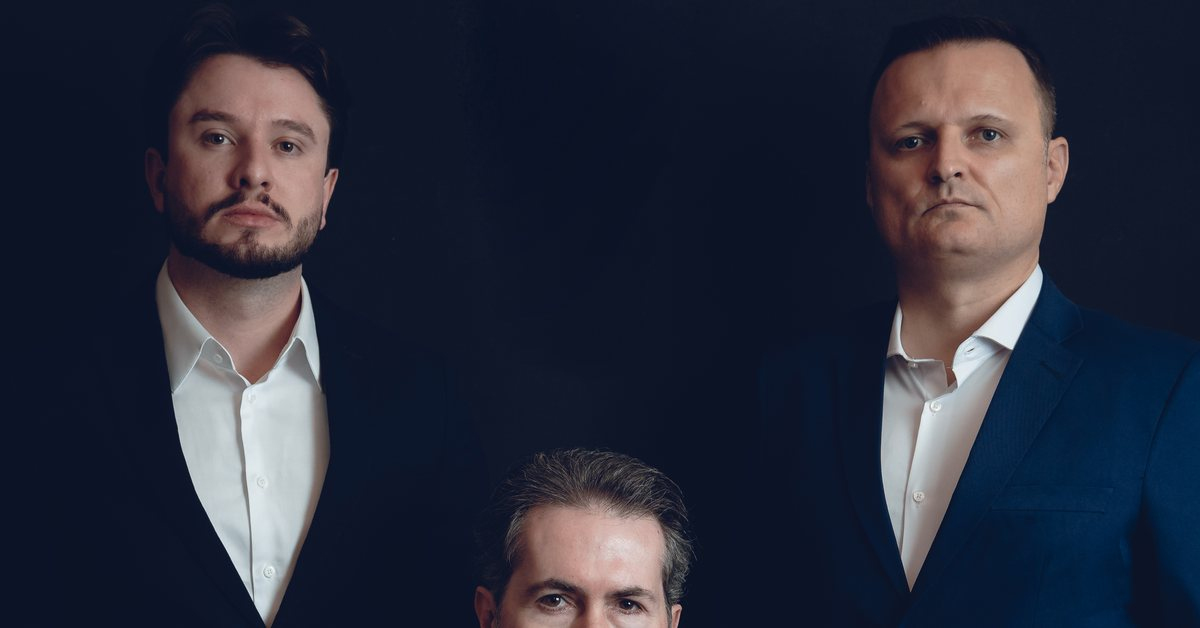
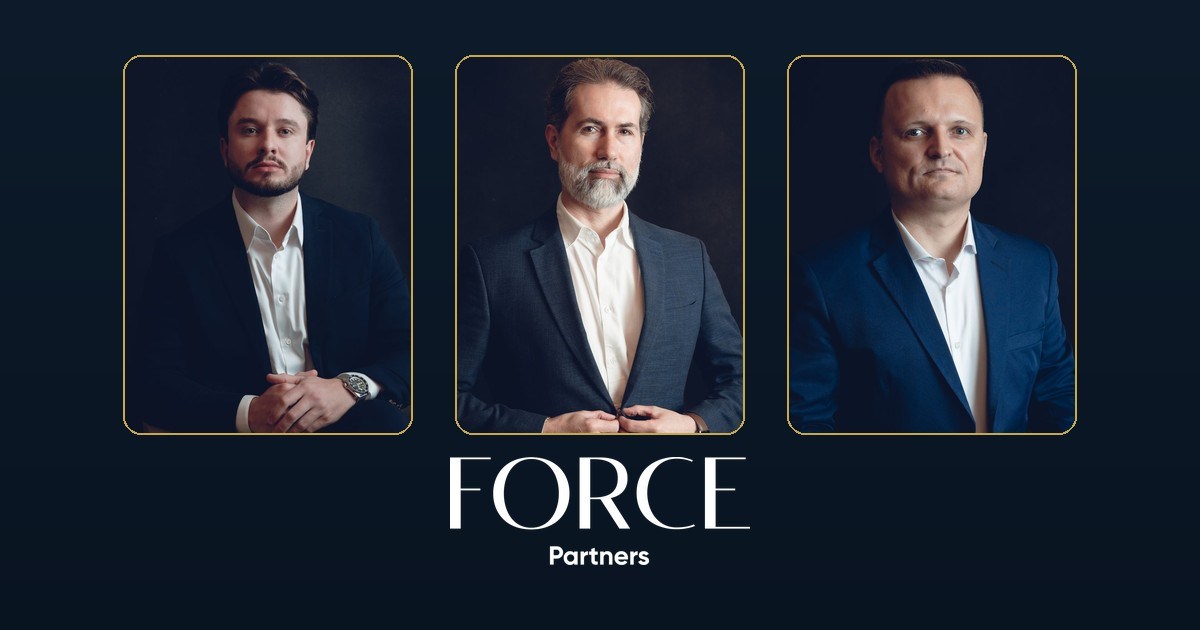
Imagem de compartilhamento: prédios na home, sala nos artigos

diff --git a/quem-somos/index.html b/quem-somos/index.html
@@ -17,11 +17,11 @@
   <meta property="og:title" content="Quem Somos | Sócios da Force Partners" />
   <meta property="og:description" content="Os sócios entram no mandato: Marlon Korbes, Caciano Zanella e Eduardo Rücker. Duas décadas reestruturando empresas, mais de R$ 1 bilhão em passivos." />
   <meta property="og:url" content="https://forcepartners.com.br/quem-somos/" />
-  <meta property="og:image" content="https://vinipietro10.github.io/force-partners-site/assets/img/og-socios.jpg" />
+  <meta property="og:image" content="https://forcepartners.com.br/assets/img/og-socios.jpg?v=2" />
   <meta name="twitter:card" content="summary_large_image" />
   <meta name="twitter:title" content="Quem Somos | Sócios da Force Partners" />
   <meta name="twitter:description" content="Os sócios entram no mandato. Duas décadas reestruturando empresas, mais de R$ 1 bilhão em passivos." />
-  <meta name="twitter:image" content="https://vinipietro10.github.io/force-partners-site/assets/img/og-socios.jpg" />
+  <meta name="twitter:image" content="https://forcepartners.com.br/assets/img/og-socios.jpg?v=2" />
 
   <script>
     if (!window.matchMedia || !window.matchMedia('(prefers-reduced-motion: reduce)').matches) document.documentElement.classList.add('anim');
@@ -48,7 +48,7 @@
         "name": "Marlon Korbes",
         "jobTitle": "Sócio Fundador",
         "worksFor": { "@id": "https://forcepartners.com.br/#organizacao" },
-        "image": "https://vinipietro10.github.io/force-partners-site/assets/img/socio-marlon.jpg",
+        "image": "https://forcepartners.com.br/assets/img/socio-marlon.jpg",
         "sameAs": ["https://www.linkedin.com/in/marlonkorbes/"],
         "alumniOf": ["INSPER", "FIA", "FGV", "IBMEC", "UNOESC"],
         "knowsAbout": ["Reestruturação de empresas em crise", "Recuperação judicial"]
@@ -58,7 +58,7 @@
         "name": "Caciano Zanella",
         "jobTitle": "Sócio Fundador",
         "worksFor": { "@id": "https://forcepartners.com.br/#organizacao" },
-        "image": "https://vinipietro10.github.io/force-partners-site/assets/img/socio-caciano.jpg",
+        "image": "https://forcepartners.com.br/assets/img/socio-caciano.jpg",
         "sameAs": ["https://www.linkedin.com/in/caciano-roberto-zanella-11aa1365/"],
         "alumniOf": ["UNOESC"],
         "knowsAbout": ["Gestão e performance", "Maximização de resultados"]
@@ -68,7 +68,7 @@
         "name": "Eduardo Rücker",
         "jobTitle": "Sócio",
         "worksFor": { "@id": "https://forcepartners.com.br/#organizacao" },
-        "image": "https://vinipietro10.github.io/force-partners-site/assets/img/socio-eduardo.jpg",
+        "image": "https://forcepartners.com.br/assets/img/socio-eduardo.jpg",
         "sameAs": ["https://www.linkedin.com/in/eduardorucker/"],
         "alumniOf": ["Unisinos"],
         "knowsAbout": ["Operações industriais", "Engenharia de produção"]

diff --git a/index.html b/index.html
@@ -18,11 +18,11 @@
   <meta property="og:title" content="Force Partners | Reestruturação, Recuperação Judicial e Turnaround" />
   <meta property="og:description" content="Boutique de reestruturação empresarial. Mais de R$ 1 bilhão em passivos reestruturados, 100% dos planos de recuperação judicial aprovados. Itajaí e Chapecó, atuação nacional." />
   <meta property="og:url" content="https://forcepartners.com.br/" />
-  <meta property="og:image" content="https://vinipietro10.github.io/force-partners-site/assets/img/og-home.jpg" />
+  <meta property="og:image" content="https://forcepartners.com.br/assets/img/og-home.jpg" />
   <meta name="twitter:card" content="summary_large_image" />
   <meta name="twitter:title" content="Force Partners | Reestruturação, Recuperação Judicial e Turnaround" />
   <meta name="twitter:description" content="Boutique de reestruturação empresarial. Mais de R$ 1 bilhão em passivos reestruturados, 100% dos planos aprovados." />
-  <meta name="twitter:image" content="https://vinipietro10.github.io/force-partners-site/assets/img/og-home.jpg" />
+  <meta name="twitter:image" content="https://forcepartners.com.br/assets/img/og-home.jpg" />
 
   <script>
     if (!window.matchMedia || !window.matchMedia('(prefers-reduced-motion: reduce)').matches) document.documentElement.classList.add('anim');
@@ -45,8 +45,8 @@
     "description": "Consultoria de reestruturação empresarial, recuperação judicial (Lei 11.101/2005) e turnaround. Mais de R$ 1 bilhão em passivos reestruturados e 100% dos planos de recuperação aprovados.",
     "url": "https://forcepartners.com.br/",
     "sameAs": ["https://br.linkedin.com/company/forcepartners"],
-    "logo": "https://vinipietro10.github.io/force-partners-site/assets/img/logo-force.png",
-    "image": "https://vinipietro10.github.io/force-partners-site/assets/img/og-home.jpg",
+    "logo": "https://forcepartners.com.br/assets/img/logo-force.png",
+    "image": "https://forcepartners.com.br/assets/img/og-home.jpg",
     "telephone": "+55-49-99934-0706",
     "email": "[email redacted]",
     "priceRange": "$$$$",

diff --git a/artigos/empresa-em-crise-o-que-fazer/index.html b/artigos/empresa-em-crise-o-que-fazer/index.html
@@ -17,13 +17,13 @@
   <meta property="og:title" content="Empresa em crise: 7 sinais de que o caixa vai travar" />
   <meta property="og:description" content="Os avisos que aparecem no número de 6 a 12 meses antes da crise aberta, e o que fazer em cada estágio para manter o poder de decisão." />
   <meta property="og:url" content="https://forcepartners.com.br/artigos/empresa-em-crise-o-que-fazer/" />
-  <meta property="og:image" content="https://vinipietro10.github.io/force-partners-site/assets/img/hero-ambiente.jpg" />
+  <meta property="og:image" content="https://forcepartners.com.br/assets/img/og-socios.jpg?v=2" />
   <meta property="article:published_time" content="2026-07-09" />
   <meta property="article:modified_time" content="2026-07-09" />
   <meta name="twitter:card" content="summary_large_image" />
   <meta name="twitter:title" content="Empresa em crise: 7 sinais de que o caixa vai travar" />
   <meta name="twitter:description" content="Os avisos que aparecem no número de 6 a 12 meses antes da crise aberta, e o que fazer em cada estágio." />
-  <meta name="twitter:image" content="https://vinipietro10.github.io/force-partners-site/assets/img/hero-ambiente.jpg" />
+  <meta name="twitter:image" content="https://forcepartners.com.br/assets/img/og-socios.jpg?v=2" />
 
   <script>
     if (!window.matchMedia || !window.matchMedia('(prefers-reduced-motion: reduce)').matches) document.documentElement.classList.add('anim');
@@ -43,7 +43,7 @@
     "headline": "Empresa em crise: 7 sinais de que o caixa vai travar (e o que fazer)",
     "description": "Os 7 sinais de crise que aparecem no número de 6 a 12 meses antes do caixa travar e o que fazer em cada estágio, com dados oficiais de 2026.",
     "inLanguage": "pt-BR",
-    "image": "https://vinipietro10.github.io/force-partners-site/assets/img/hero-ambiente.jpg",
+    "image": "https://forcepartners.com.br/assets/img/hero-ambiente.jpg",
     "datePublished": "2026-07-09",
     "dateModified": "2026-07-09",
     "author": { "@type": "Organization", "name": "Force Partners", "url": "https://forcepartners.com.br/" },

diff --git a/artigos/recuperacao-extrajudicial/index.html b/artigos/recuperacao-extrajudicial/index.html
@@ -17,13 +17,13 @@
   <meta property="og:title" content="Recuperação extrajudicial: como funciona e quando usar" />
   <meta property="og:description" content="O instrumento que homologa o acordo com credores sem o peso do processo completo. Quóruns, limites e comparação direta com a recuperação judicial." />
   <meta property="og:url" content="https://forcepartners.com.br/artigos/recuperacao-extrajudicial/" />
-  <meta property="og:image" content="https://vinipietro10.github.io/force-partners-site/assets/img/hero-ambiente.jpg" />
+  <meta property="og:image" content="https://forcepartners.com.br/assets/img/og-socios.jpg?v=2" />
   <meta property="article:published_time" content="2026-07-09" />
   <meta property="article:modified_time" content="2026-07-09" />
   <meta name="twitter:card" content="summary_large_image" />
   <meta name="twitter:title" content="Recuperação extrajudicial: como funciona e quando usar" />
   <meta name="twitter:description" content="Quóruns, limites e comparação direta com a recuperação judicial, por quem executa reestruturações." />
-  <meta name="twitter:image" content="https://vinipietro10.github.io/force-partners-site/assets/img/hero-ambiente.jpg" />
+  <meta name="twitter:image" content="https://forcepartners.com.br/assets/img/og-socios.jpg?v=2" />
 
   <script>
     if (!window.matchMedia || !window.matchMedia('(prefers-reduced-motion: reduce)').matches) document.documentElement.classList.add('anim');
@@ -43,7 +43,7 @@
     "headline": "Recuperação extrajudicial: como funciona e quando usar",
     "description": "O que é recuperação extrajudicial, quóruns de homologação, diferenças para a recuperação judicial e quando ela resolve a dívida sem o processo completo.",
     "inLanguage": "pt-BR",
-    "image": "https://vinipietro10.github.io/force-partners-site/assets/img/hero-ambiente.jpg",
+    "image": "https://forcepartners.com.br/assets/img/hero-ambiente.jpg",
     "datePublished": "2026-07-09",
     "dateModified": "2026-07-09",
     "author": { "@type": "Organization", "name": "Force Partners", "url": "https://forcepartners.com.br/" },

diff --git a/artigos/recuperacao-judicial-botafogo/index.html b/artigos/recuperacao-judicial-botafogo/index.html
@@ -17,13 +17,13 @@
   <meta property="og:title" content="Recuperação judicial do Botafogo: o que o caso ensina sobre a Lei 11.101" />
   <meta property="og:description" content="A SAF do Botafogo entrou em recuperação judicial em 2026 com R$ 1,28 bilhão sujeito ao processo. O que o caso mostra sobre stay period, plano e o regime das SAFs." />
   <meta property="og:url" content="https://forcepartners.com.br/artigos/recuperacao-judicial-botafogo/" />
-  <meta property="og:image" content="https://vinipietro10.github.io/force-partners-site/assets/img/hero-ambiente.jpg" />
+  <meta property="og:image" content="https://forcepartners.com.br/assets/img/og-socios.jpg?v=2" />
   <meta property="article:published_time" content="2026-07-12" />
   <meta property="article:modified_time" content="2026-07-12" />
   <meta name="twitter:card" content="summary_large_image" />
   <meta name="twitter:title" content="Recuperação judicial do Botafogo: o que o caso ensina sobre a Lei 11.101" />
   <meta name="twitter:description" content="A SAF do Botafogo entrou em recuperação judicial em 2026 com R$ 1,28 bilhão sujeito ao processo. O caso explicado pela Lei 11.101." />
-  <meta name="twitter:image" content="https://vinipietro10.github.io/force-partners-site/assets/img/hero-ambiente.jpg" />
+  <meta name="twitter:image" content="https://forcepartners.com.br/assets/img/og-socios.jpg?v=2" />
 
   <script>
     if (!window.matchMedia || !window.matchMedia('(prefers-reduced-motion: reduce)').matches) document.documentElement.classList.add('anim');
@@ -43,7 +43,7 @@
     "headline": "Recuperação judicial do Botafogo: o que o caso ensina sobre a Lei 11.101",
     "description": "A SAF do Botafogo entrou em recuperação judicial em 2026 com R$ 1,28 bilhão em dívida sujeita ao processo. O caso explicado pela Lei 11.101, com dados oficiais.",
     "inLanguage": "pt-BR",
-    "image": "https://vinipietro10.github.io/force-partners-site/assets/img/hero-ambiente.jpg",
+    "image": "https://forcepartners.com.br/assets/img/hero-ambiente.jpg",
     "datePublished": "2026-07-12",
     "dateModified": "2026-07-12",
     "author": { "@type": "Organization", "name": "Force Partners", "url": "https://forcepartners.com.br/" },

diff --git a/artigos/recuperacao-judicial-como-funciona/index.html b/artigos/recuperacao-judicial-como-funciona/index.html
@@ -17,13 +17,13 @@
   <meta property="og:title" content="Recuperação judicial: como funciona, etapas e prazos da Lei 11.101" />
   <meta property="og:description" content="Requisitos, stay period, plano de recuperação e assembleia de credores, com os dados oficiais de 2025 e 2026. Por quem já reestruturou mais de R$ 1 bilhão em passivos." />
   <meta property="og:url" content="https://forcepartners.com.br/artigos/recuperacao-judicial-como-funciona/" />
-  <meta property="og:image" content="https://vinipietro10.github.io/force-partners-site/assets/img/hero-ambiente.jpg" />
+  <meta property="og:image" content="https://forcepartners.com.br/assets/img/og-socios.jpg?v=2" />
   <meta property="article:published_time" content="2026-07-09" />
   <meta property="article:modified_time" content="2026-07-09" />
   <meta name="twitter:card" content="summary_large_image" />
   <meta name="twitter:title" content="Recuperação judicial: como funciona, etapas e prazos da Lei 11.101" />
   <meta name="twitter:description" content="Requisitos, stay period, plano e assembleia de credores, com dados oficiais de 2025 e 2026." />
-  <meta name="twitter:image" content="https://vinipietro10.github.io/force-partners-site/assets/img/hero-ambiente.jpg" />
+  <meta name="twitter:image" content="https://forcepartners.com.br/assets/img/og-socios.jpg?v=2" />
 
   <script>
     if (!window.matchMedia || !window.matchMedia('(prefers-reduced-motion: reduce)').matches) document.documentElement.classList.add('anim');
@@ -43,7 +43,7 @@
     "headline": "Recuperação judicial: como funciona, etapas e prazos da Lei 11.101",
     "description": "Como funciona a recuperação judicial: requisitos da Lei 11.101, etapas, prazos, stay period, plano e assembleia de credores. Guia com dados oficiais de 2025 e 2026.",
     "inLanguage": "pt-BR",
-    "image": "https://vinipietro10.github.io/force-partners-site/assets/img/hero-ambiente.jpg",
+    "image": "https://forcepartners.com.br/assets/img/hero-ambiente.jpg",
     "datePublished": "2026-07-09",
     "dateModified": "2026-07-09",
     "author": { "@type": "Organization", "name": "Force Partners", "url": "https://forcepartners.com.br/" },

diff --git a/artigos/reestruturacao-empresarial/index.html b/artigos/reestruturacao-empresarial/index.html
@@ -17,13 +17,13 @@
   <meta property="og:title" content="Reestruturação empresarial: o que é e como funciona" />
   <meta property="og:description" content="Tipos de reestruturação, quando fazer e as fases do processo, por quem já reestruturou mais de R$ 1 bilhão em passivos." />
   <meta property="og:url" content="https://forcepartners.com.br/artigos/reestruturacao-empresarial/" />
-  <meta property="og:image" content="https://vinipietro10.github.io/force-partners-site/assets/img/hero-ambiente.jpg" />
+  <meta property="og:image" content="https://forcepartners.com.br/assets/img/og-socios.jpg?v=2" />
   <meta property="article:published_time" content="2026-07-09" />
   <meta property="article:modified_time" content="2026-07-09" />
   <meta name="twitter:card" content="summary_large_image" />
   <meta name="twitter:title" content="Reestruturação empresarial: o que é e como funciona" />
   <meta name="twitter:description" content="Tipos de reestruturação, quando fazer e as fases do processo, explicados por quem executa." />
-  <meta name="twitter:image" content="https://vinipietro10.github.io/force-partners-site/assets/img/hero-ambiente.jpg" />
+  <meta name="twitter:image" content="https://forcepartners.com.br/assets/img/og-socios.jpg?v=2" />
 
   <script>
     if (!window.matchMedia || !window.matchMedia('(prefers-reduced-motion: reduce)').matches) document.documentElement.classList.add('anim');
@@ -43,7 +43,7 @@
     "headline": "Reestruturação empresarial: o que é e como funciona",
     "description": "Reestruturação empresarial: o que é, tipos (financeira, operacional e societária), quando fazer e as fases do processo. Guia direto com dados de 2026.",
     "inLanguage": "pt-BR",
-    "image": "https://vinipietro10.github.io/force-partners-site/assets/img/hero-ambiente.jpg",
+    "image": "https://forcepartners.com.br/assets/img/hero-ambiente.jpg",
     "datePublished": "2026-07-09",
     "dateModified": "2026-07-09",
     "author": { "@type": "Organization", "name": "Force Partners", "url": "https://forcepartners.com.br/" },

diff --git a/artigos/turnaround-empresarial/index.html b/artigos/turnaround-empresarial/index.html
@@ -17,13 +17,13 @@
   <meta property="og:title" content="Turnaround empresarial: o que é e como funciona a virada" />
   <meta property="og:description" content="As fases da virada operacional, os indicadores que provam o resultado e por que a maioria dos turnarounds falha. Por quem executa dentro da empresa." />
   <meta property="og:url" content="https://forcepartners.com.br/artigos/turnaround-empresarial/" />
-  <meta property="og:image" content="https://vinipietro10.github.io/force-partners-site/assets/img/hero-ambiente.jpg" />
+  <meta property="og:image" content="https://forcepartners.com.br/assets/img/og-socios.jpg?v=2" />
   <meta property="article:published_time" content="2026-07-09" />
   <meta property="article:modified_time" content="2026-07-09" />
   <meta name="twitter:card" content="summary_large_image" />
   <meta name="twitter:title" content="Turnaround empresarial: o que é e como funciona a virada" />
   <meta name="twitter:description" content="As fases da virada operacional e os indicadores que provam o resultado, por quem executa." />
-  <meta name="twitter:image" content="https://vinipietro10.github.io/force-partners-site/assets/img/hero-ambiente.jpg" />
+  <meta name="twitter:image" content="https://forcepartners.com.br/assets/img/og-socios.jpg?v=2" />
 
   <script>
     if (!window.matchMedia || !window.matchMedia('(prefers-reduced-motion: reduce)').matches) document.documentElement.classList.add('anim');
@@ -43,7 +43,7 @@
     "headline": "Turnaround empresarial: o que é e como funciona a virada",
     "description": "Turnaround empresarial: o que é, fases da virada operacional, indicadores que provam o resultado e por que a maioria falha.",
     "inLanguage": "pt-BR",
-    "image": "https://vinipietro10.github.io/force-partners-site/assets/img/hero-ambiente.jpg",
+    "image": "https://forcepartners.com.br/assets/img/hero-ambiente.jpg",
     "datePublished": "2026-07-09",
     "dateModified": "2026-07-09",
     "author": { "@type": "Organization", "name": "Force Partners", "url": "https://forcepartners.com.br/" },

diff --git a/artigos/index.html b/artigos/index.html
@@ -17,11 +17,11 @@
   <meta property="og:title" content="Artigos sobre Reestruturação e Recuperação Judicial | Force Partners" />
   <meta property="og:description" content="Recuperação judicial, reestruturação empresarial, turnaround e gestão de crise. Análise direta, com dado oficial e fonte." />
   <meta property="og:url" content="https://forcepartners.com.br/artigos/" />
-  <meta property="og:image" content="https://vinipietro10.github.io/force-partners-site/assets/img/hero-ambiente.jpg" />
+  <meta property="og:image" content="https://forcepartners.com.br/assets/img/servicos-sala-mobile.jpg" />
   <meta name="twitter:card" content="summary_large_image" />
   <meta name="twitter:title" content="Artigos | Force Partners" />
   <meta name="twitter:description" content="Recuperação judicial, reestruturação empresarial e turnaround, explicados por quem executa." />
-  <meta name="twitter:image" content="https://vinipietro10.github.io/force-partners-site/assets/img/hero-ambiente.jpg" />
+  <meta name="twitter:image" content="https://forcepartners.com.br/assets/img/servicos-sala-mobile.jpg" />
 
   <script>
     if (!window.matchMedia || !window.matchMedia('(prefers-reduced-motion: reduce)').matches) document.documentElement.classList.add('anim');

diff --git a/bi/index.html b/bi/index.html
@@ -17,11 +17,11 @@
   <meta property="og:title" content="BI para Gestão Empresarial | Painéis da Force Partners" />
   <meta property="og:description" content="Toda opinião é falta de dados. Clique, navegue e veja como decide uma empresa que enxerga o próprio número: 4 painéis interativos de demonstração." />
   <meta property="og:url" content="https://forcepartners.com.br/bi/" />
-  <meta property="og:image" content="https://vinipietro10.github.io/force-partners-site/assets/img/bi-financeiro.jpg" />
+  <meta property="og:image" content="https://forcepartners.com.br/assets/img/bi-financeiro.jpg" />
   <meta name="twitter:card" content="summary_large_image" />
   <meta name="twitter:title" content="BI para Gestão Empresarial | Painéis da Force Partners" />
   <meta name="twitter:description" content="4 painéis interativos de demonstração: financeiro, comercial, suprimentos e resultados." />
-  <meta name="twitter:image" content="https://vinipietro10.github.io/force-partners-site/assets/img/bi-financeiro.jpg" />
+  <meta name="twitter:image" content="https://forcepartners.com.br/assets/img/bi-financeiro.jpg" />
 
   <script>
     if (!window.matchMedia || !window.matchMedia('(prefers-reduced-motion: reduce)').matches) document.documentElement.classList.add('anim');